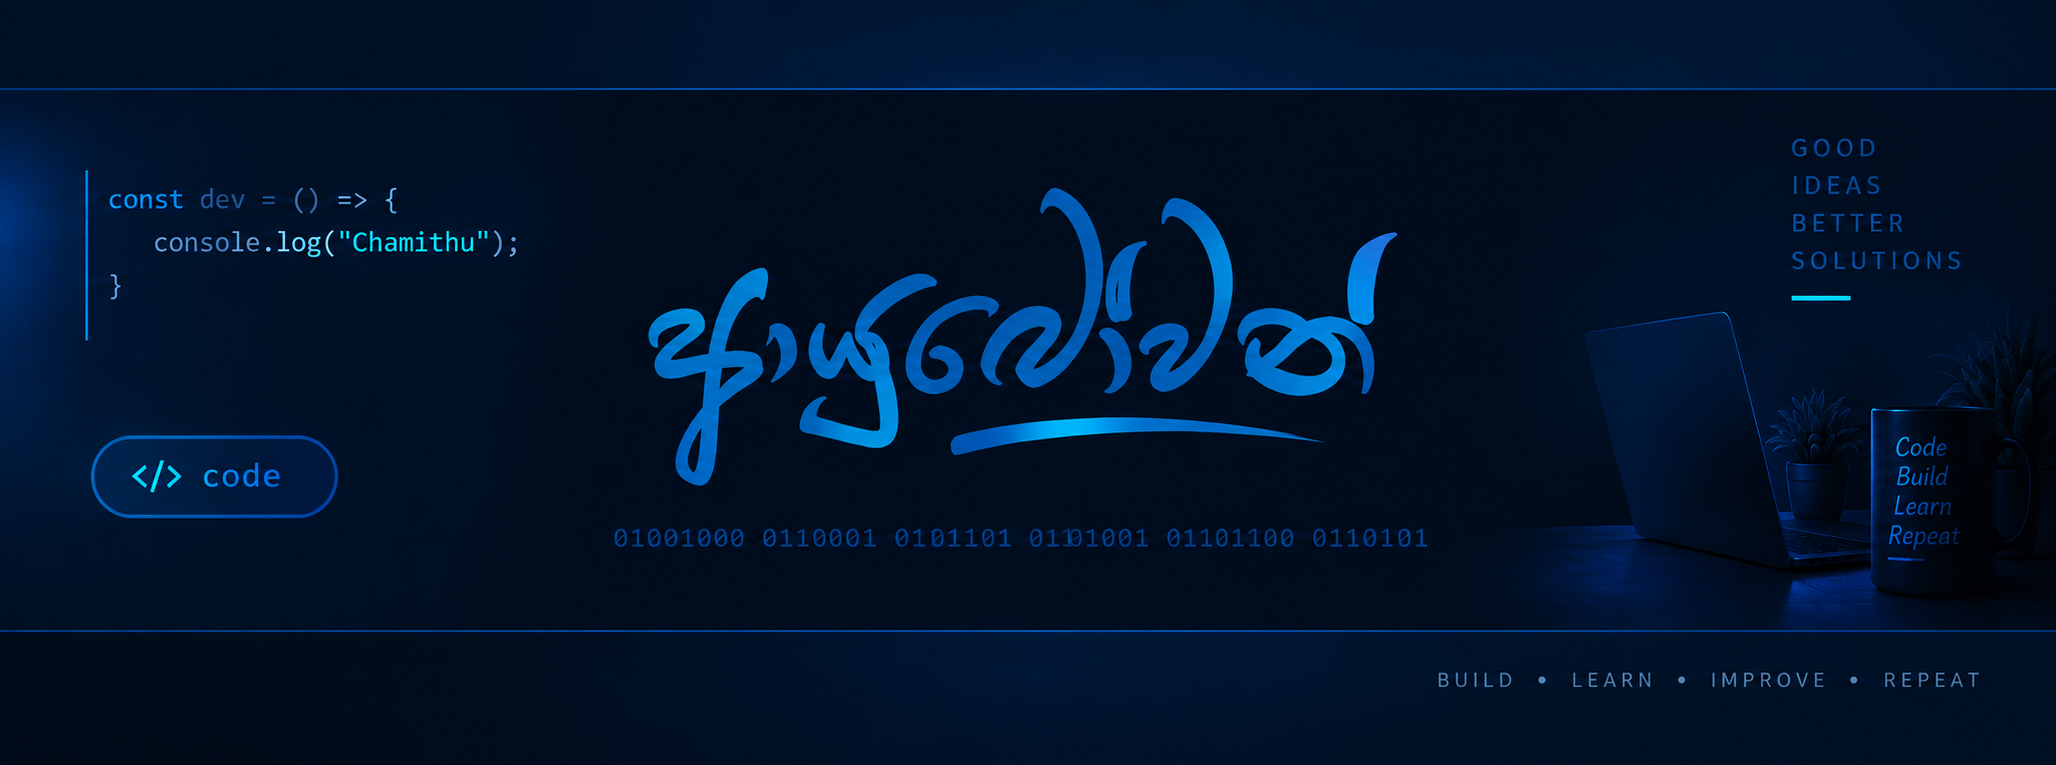
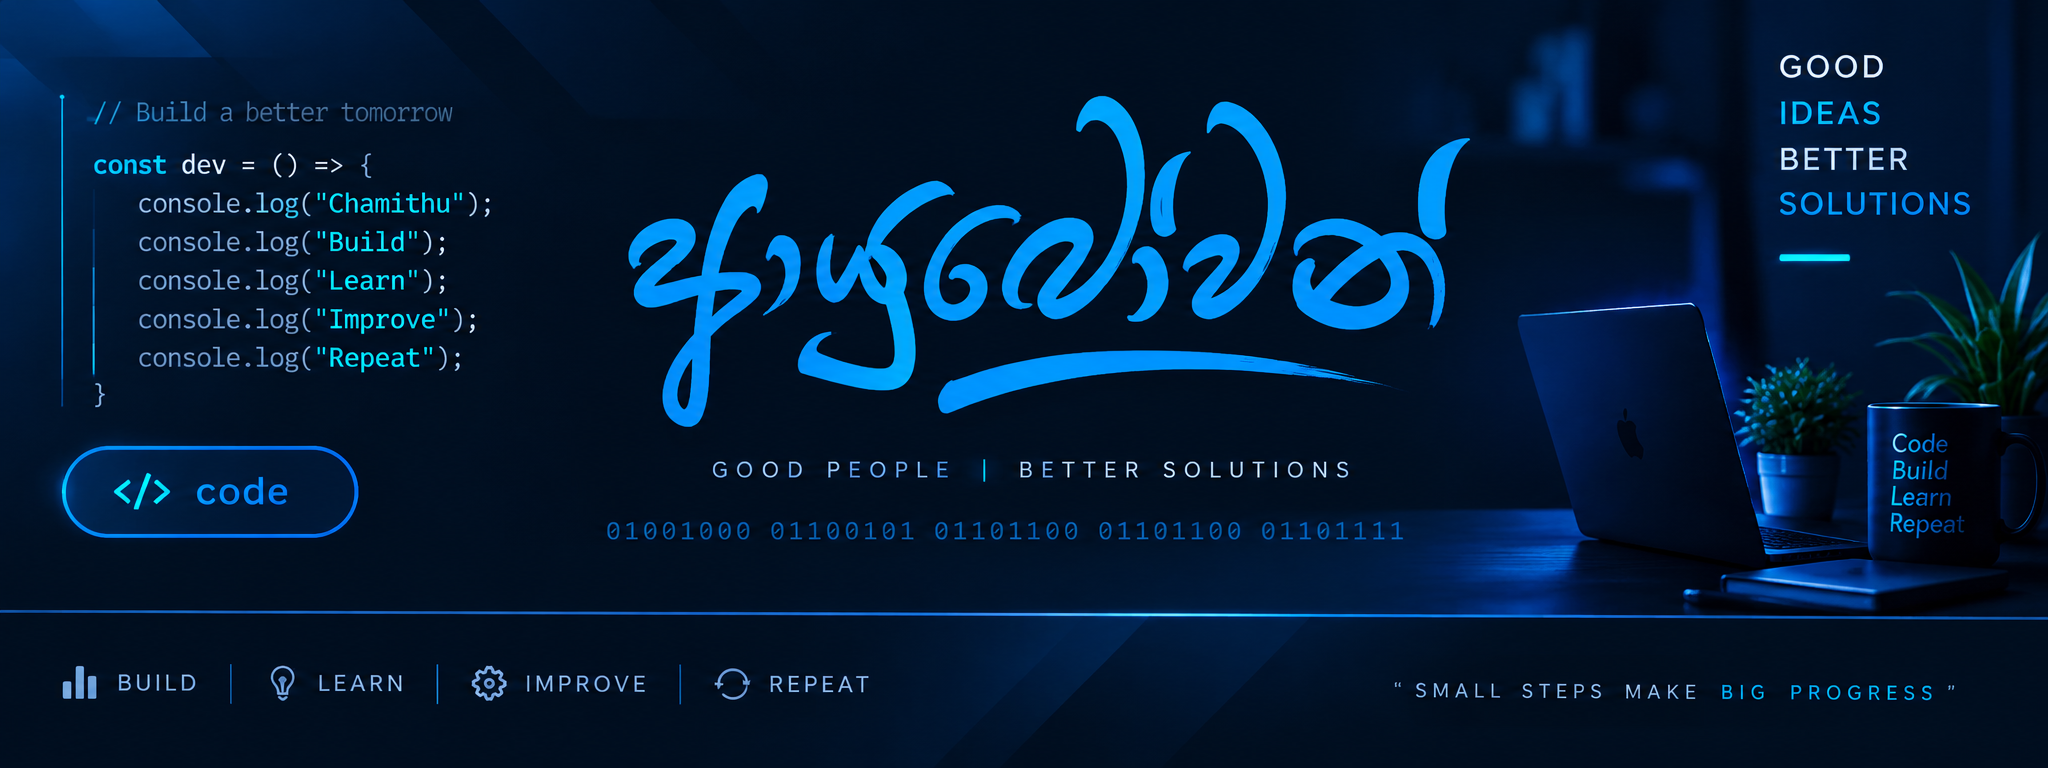
Add files via upload

diff --git a/README.md b/README.md
@@ -1,48 +1,66 @@
 <p align="center">
-  <img src="./github-banner.png" width="100%" alt="Chamithu Dewapriya GitHub Banner">
-</p>
-<br>
-<br>
-
-<h2 align="center">Web Developer & ERP System Builder</h2>
-
-<p align="center">
-  <a href="https://github.com/chamithuds">
-    <img src="https://img.shields.io/badge/GitHub-0D1117?style=flat-square&logo=github&logoColor=white">
-  </a>
-
-  <a href="https://www.linkedin.com/in/chamithu-samarawickrama-62abba392">
-    <img src="https://img.shields.io/badge/LinkedIn-0A66C2?style=flat-square&logo=linkedin&logoColor=white">
-  </a>
-
-  <a href="https://chamithuds.github.io/">
-    <img src="https://img.shields.io/badge/Portfolio-0284C7?style=flat-square&logo=googlechrome&logoColor=white">
-  </a>
-
-  <a href="https://chamithu-erp-demo.site.je/auth/login.php">
-    <img src="https://img.shields.io/badge/ERP_Demo-0369A1?style=flat-square&logo=googlechrome&logoColor=white">
-  </a>
+  <img src="./github-banner.png" width="100%" alt="Chamithu Dewapriya — Build, Learn, Improve, Repeat">
 </p>
 
 <p align="center">
-  Building, learning and improving through practical projects from Sri Lanka 🇱🇰
+  <img src="./animated-intro.svg" width="100%" alt="Web Developer & ERP System Builder — Build Learn Improve Repeat">
 </p>
 
+<p align="center">
+  Building practical business solutions while learning web development, databases and ERP systems.
+</p>
+
+<p align="center">
+  <a href="https://github.com/chamithuds">GitHub</a>
+  &nbsp; • &nbsp;
+  <a href="https://www.linkedin.com/in/chamithu-samarawickrama-62abba392">LinkedIn</a>
+  &nbsp; • &nbsp;
+  <a href="https://chamithuds.github.io/">Portfolio</a>
+  &nbsp; • &nbsp;
+  <a href="https://chamithu-erp-demo.site.je/auth/login.php">ERP Demo</a>
+</p>
+
+<p align="center"><img src="./animated-divider.svg" width="100%" alt="animated divider"></p>
 <br>
+
 <h3 align="center">Languages & Technologies</h3>
 
 <p align="center">
-  <img src="https://img.shields.io/badge/PHP-Working_With-2563EB?style=flat-square&logo=php&logoColor=white">
-  <img src="https://img.shields.io/badge/HTML-Working_With-0EA5E9?style=flat-square&logo=html5&logoColor=white">
-  <img src="https://img.shields.io/badge/CSS-Working_With-0284C7?style=flat-square&logo=css3&logoColor=white">
-  <img src="https://img.shields.io/badge/JavaScript-Learning-0369A1?style=flat-square&logo=javascript&logoColor=white">
-  <img src="https://img.shields.io/badge/MySQL-Working_With-075985?style=flat-square&logo=mysql&logoColor=white">
+  <img src="https://skillicons.dev/icons?i=php,mysql,html,css,js&theme=dark" alt="PHP, MySQL, HTML, CSS and JavaScript">
 </p>
 
-<br><br>
+<p align="center">
+  <sub>PHP &nbsp; • &nbsp; MySQL &nbsp; • &nbsp; HTML &nbsp; • &nbsp; CSS &nbsp; • &nbsp; JavaScript</sub>
+</p>
+
+<br>
+
 <p align="center">
   <img
     src="https://streak-stats.demolab.com?user=chamithuds&hide_border=true&background=0D1117&stroke=1E3A5F&ring=38BDF8&fire=38BDF8&currStreakNum=38BDF8&sideNums=3B82F6&currStreakLabel=38BDF8&sideLabels=94A3B8&dates=64748B"
-    alt="Chamithu's GitHub Streak"
+    alt="Chamithu's GitHub contribution streak"
   />
+</p>
+
+<br>
+
+<p align="center"><img src="./animated-divider.svg" width="100%" alt="animated divider"></p>
+
+<h3 align="center">Featured Project</h3>
+
+<p align="center">
+  <b>WM Group ERP System</b><br>
+  <sub>Business operations • Scale registry & repairs • Licence tracking • Quotations & invoices • Payments • Management dashboard</sub>
+</p>
+
+<p align="center">
+  <a href="https://chamithu-erp-demo.site.je/auth/login.php"><b>View Live ERP Demo ↗</b></a>
+  &nbsp; • &nbsp;
+  <a href="https://chamithuds.github.io/"><b>View Portfolio ↗</b></a>
+</p>
+
+<br>
+
+<p align="center">
+  <sub>Learning by building real-world projects 🇱🇰</sub>
 </p>
